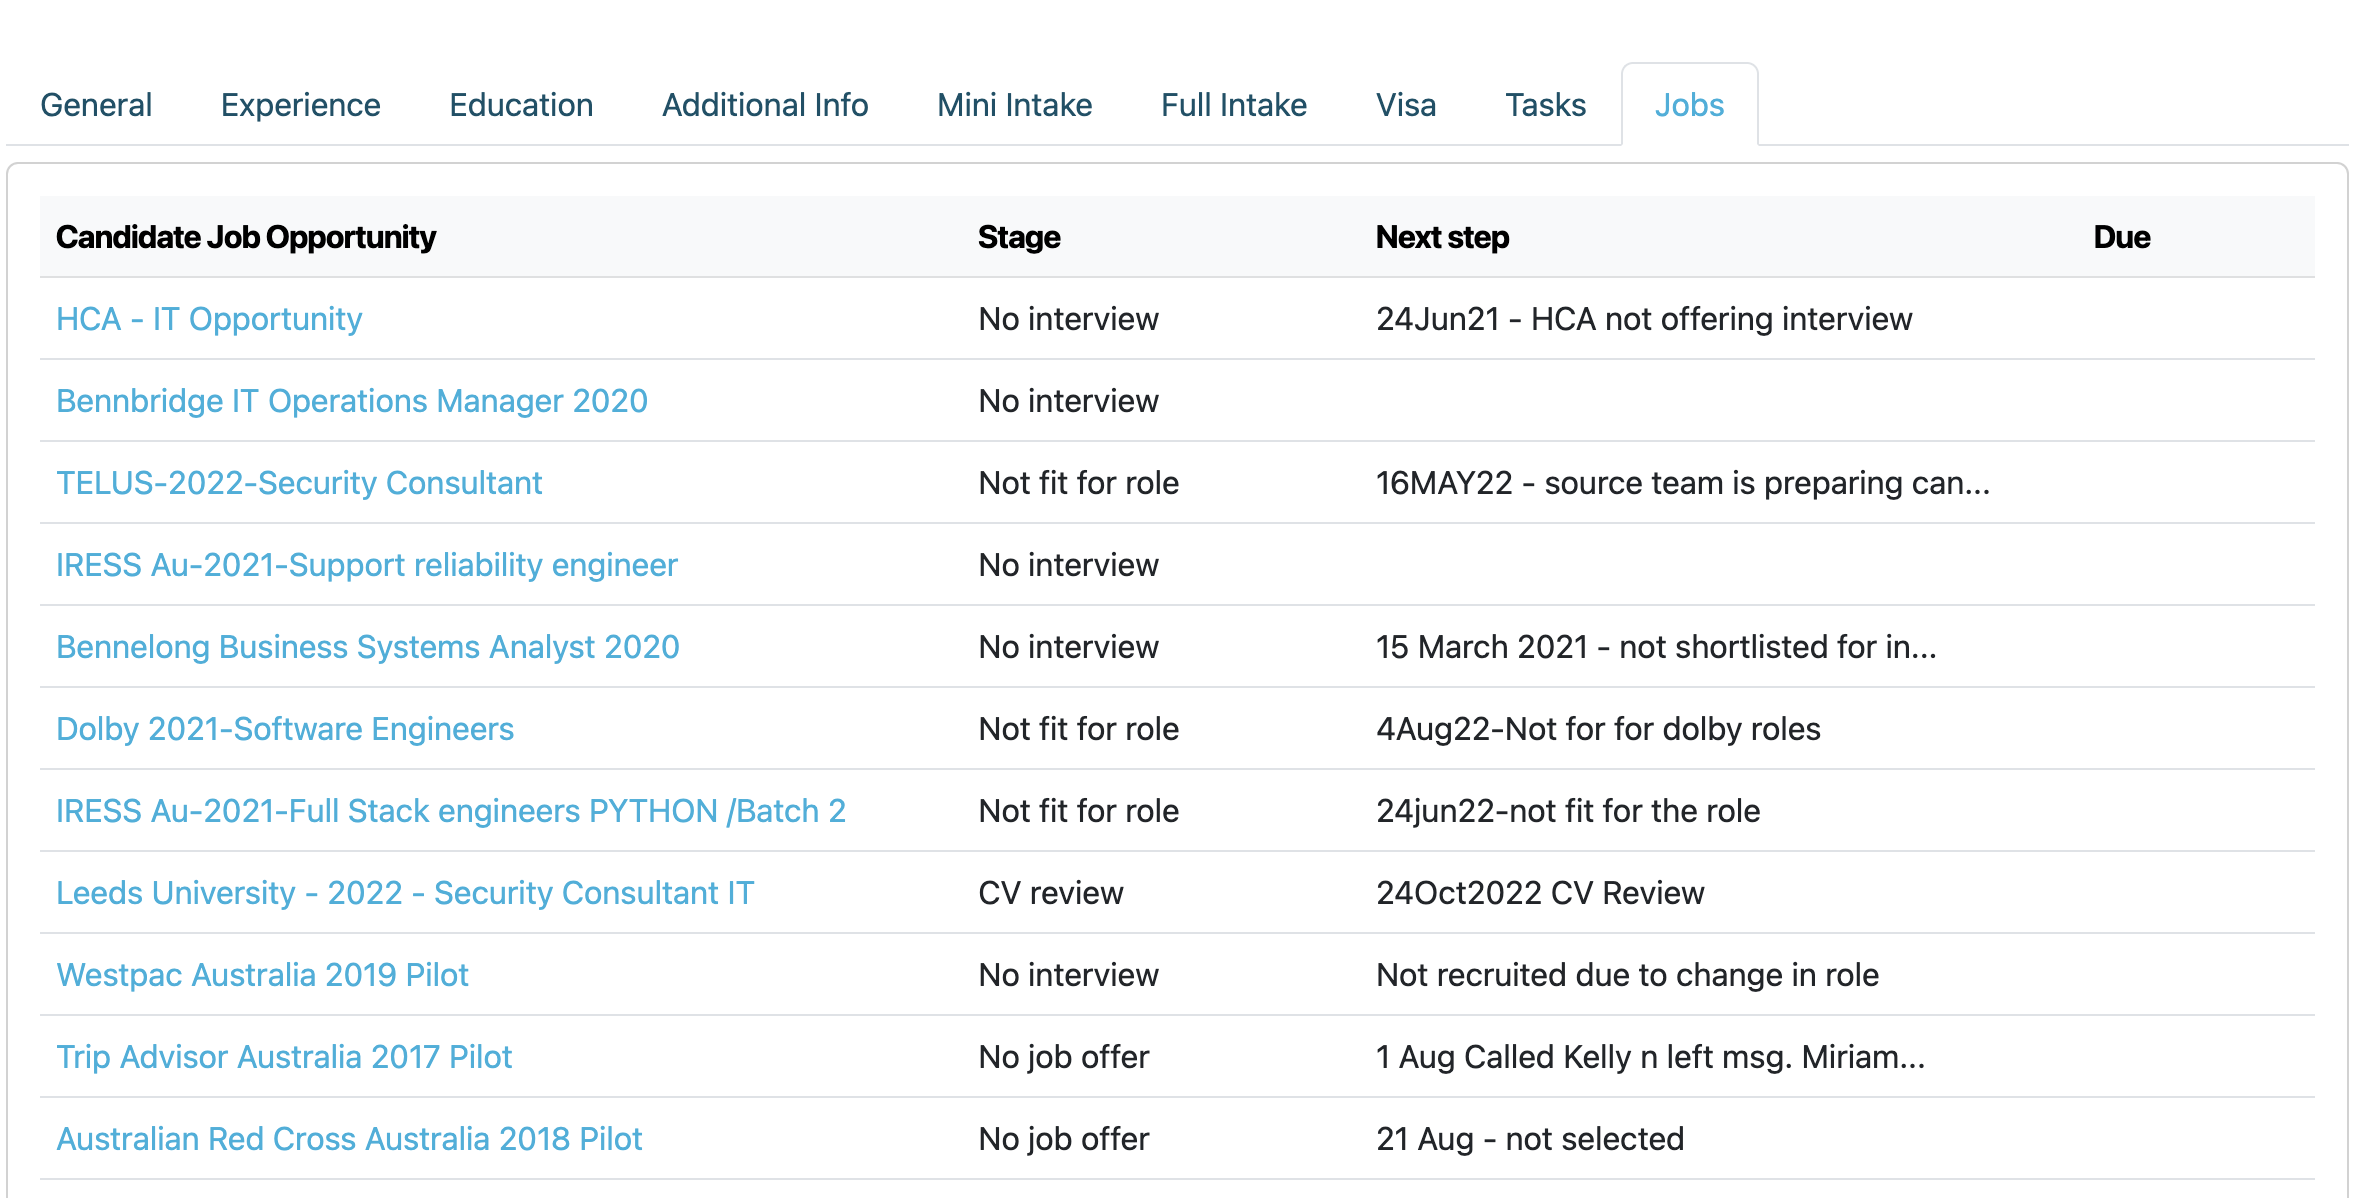
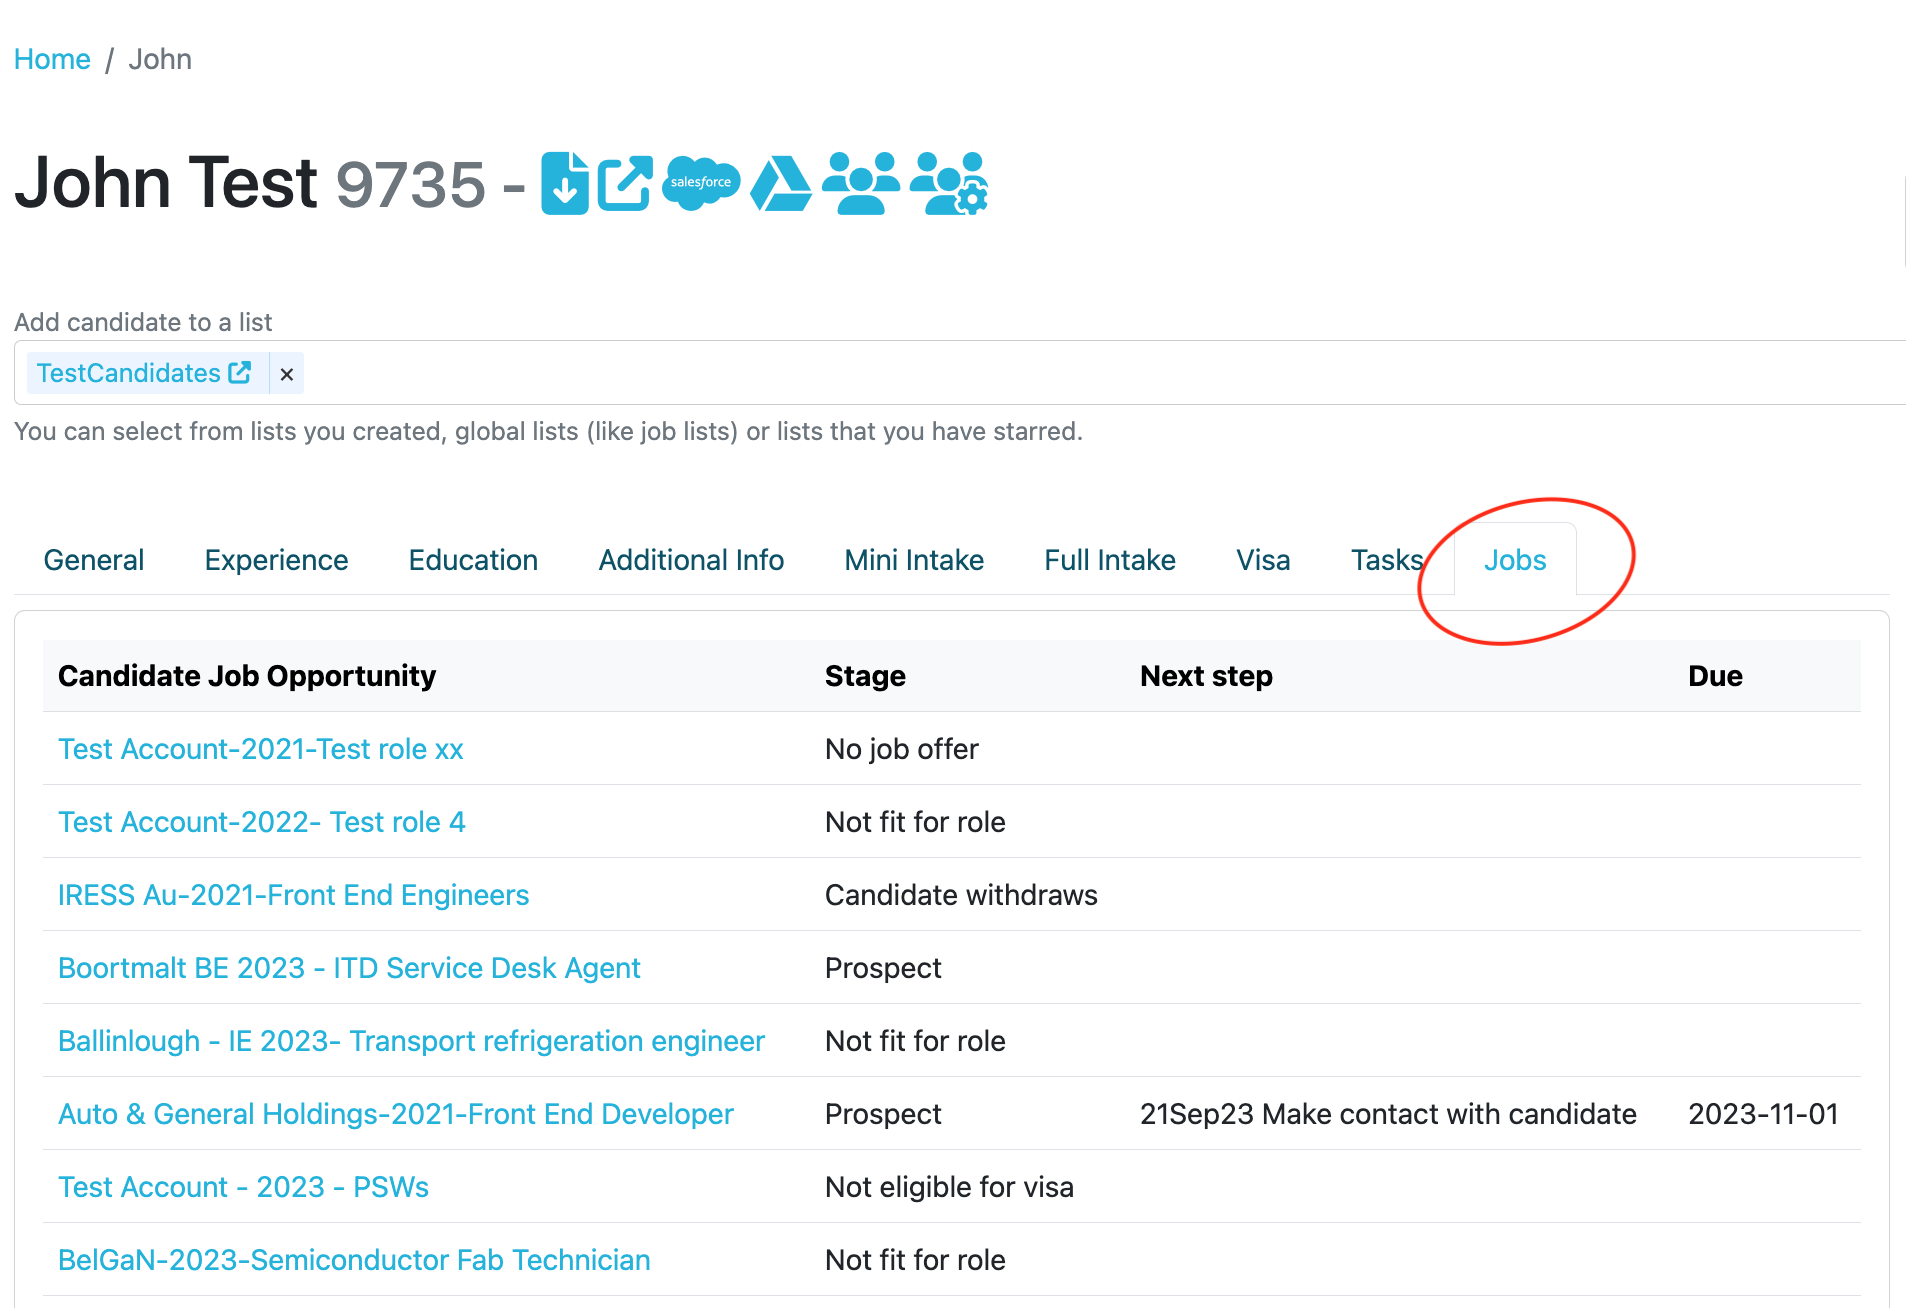
update admin portal candidate opportunities images

diff --git a/docs/v210/candidate_opportunities.md b/docs/v210/candidate_opportunities.md
@@ -11,7 +11,7 @@ opportunities. This enhancement allows Talent Catalog administrators to easily o
 opportunities (or "cases") that have been put forward for jobs.
 
 <div class="card-image-container">
-  <img src="./../assets/images/v210/CandidateOpportunities.png" alt="Job Opportunity Cases" class="card-image">
+  <img src="./../assets/images/v210/CandidateOpportunitiesCRS.png" alt="Job Opportunity Cases" class="card-image">
 </div>
 
 # Job Listings
